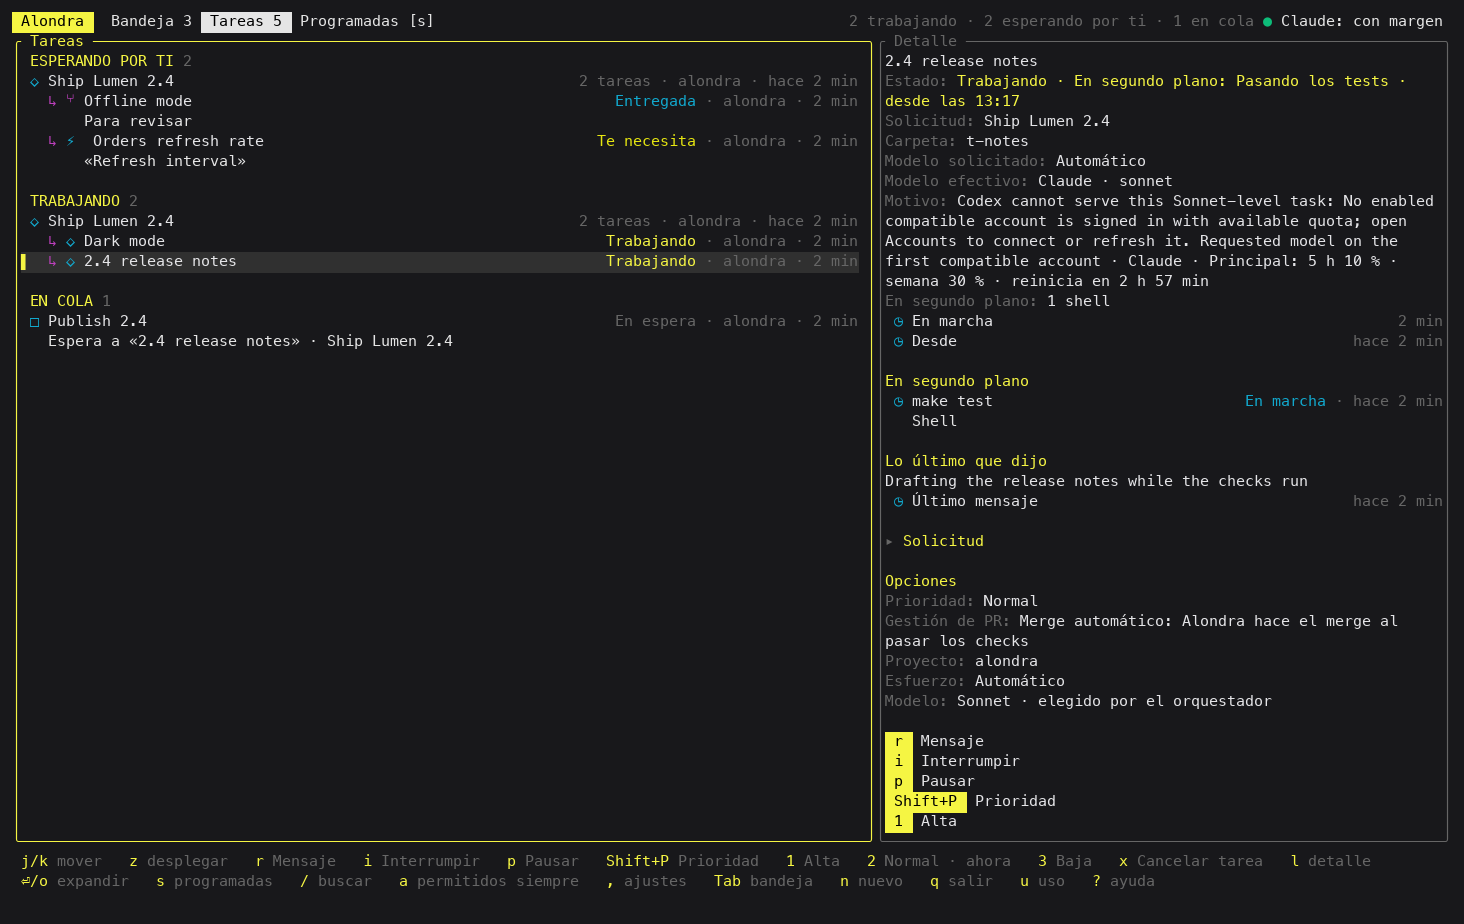
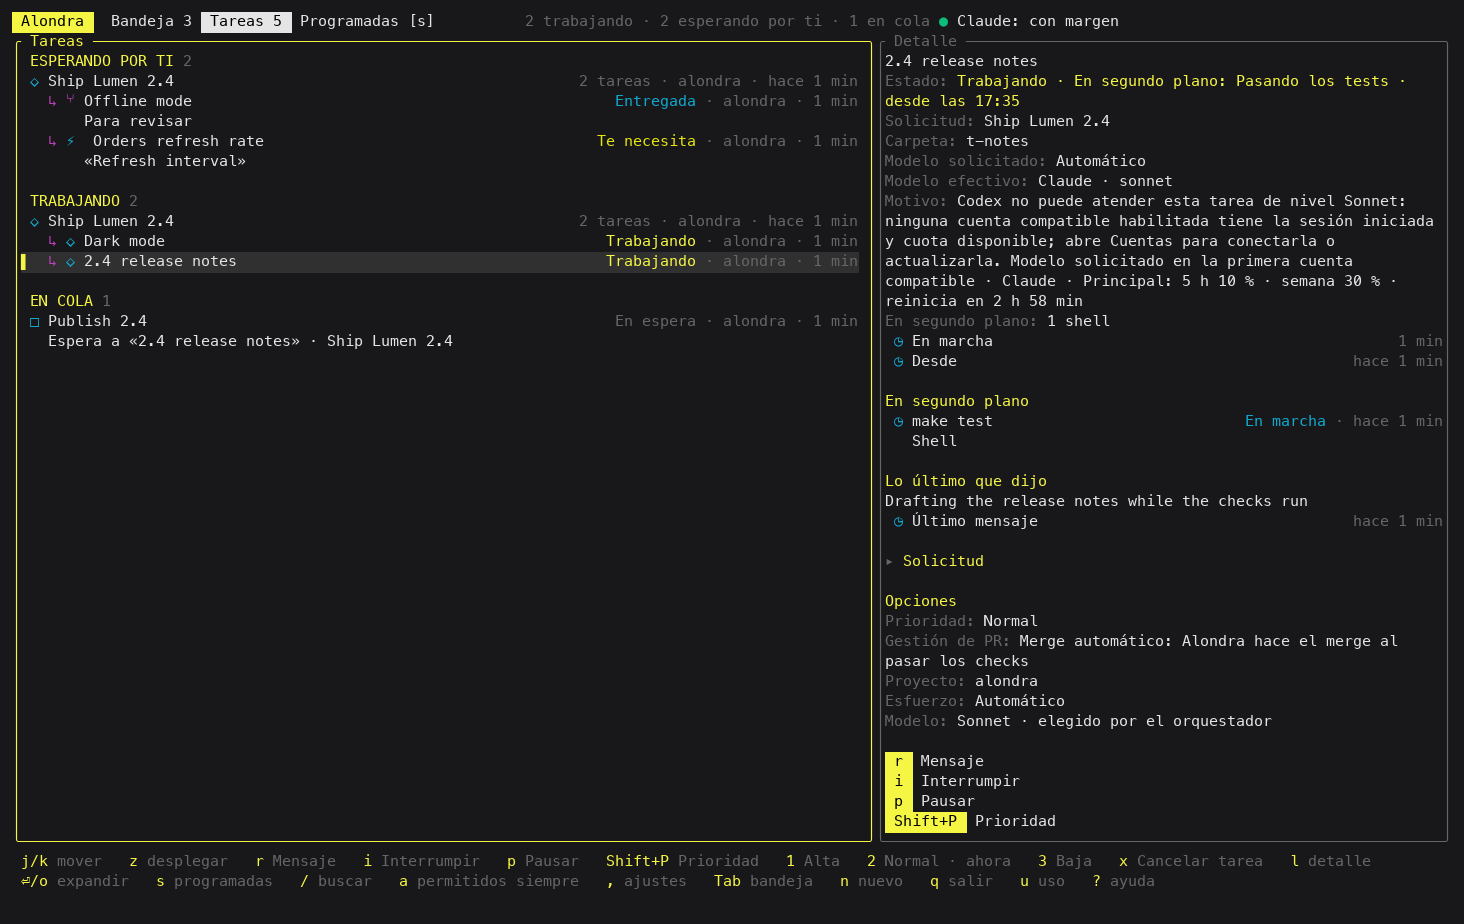
Localize system model-selection diagnostics

diff --git a/crates/core/src/views/tests.rs b/crates/core/src/views/tests.rs
@@ -9490,6 +9490,48 @@ fn a_committed_pending_model_change_localizes_its_app_owned_reason() {
 }
 
 #[test]
+fn model_selection_diagnostics_are_localized_in_every_client_without_translating_authored_prose() {
+    use crate::model_selection::{ModelProfile, TaskSelection};
+    fn shown_reason(view: &View, lang: Lang) -> &str {
+        view.sections.iter().flat_map(|section| &section.items).find_map(|item| match item {
+            Item::Facts(facts) => facts.items.iter().find(|fact| fact.label == if lang == Lang::Es { "Motivo" } else { "Reason" }).map(|fact| fact.value.as_str()),
+            _ => None,
+        }).expect("the client receives a visible model-selection reason")
+    }
+    let (mut state, live) = advertised_model_controls_fixture();
+    let id = state.tasks.values().find(|task| !task.state.terminal()).unwrap().id.clone();
+    let diagnostic = "Codex cannot serve this Sonnet-level task: No enabled compatible account is signed in with available quota; open Accounts to connect or refresh it. Requested model on the first compatible account";
+    state.requests.get_mut(&state.tasks[&id].request_id).unwrap().body = diagnostic.into();
+    for reason in [diagnostic, "Requested model on the first compatible account", "Task profile on the first compatible account", "Requested model unavailable; authorized model substitution", "Provisional Sonnet-level routing to Codex. Task profile on the first compatible account"] {
+        let mut selection = TaskSelection::automatic(ModelProfile::Implementation);
+        selection.reason = Some(reason.into());
+        state.tasks.get_mut(&id).unwrap().selection = Some(selection);
+        for client in [Client::Tui, Client::Ios, Client::Mac] {
+            let english = render(&state, &live, client, Lang::En, &format!("task:{id}"), "");
+            assert!(shown_reason(&english, Lang::En).contains(reason));
+            let spanish_view = render(&state, &live, client, Lang::Es, &format!("task:{id}"), "");
+            let spanish = shown_reason(&spanish_view, Lang::Es);
+            assert!(!spanish.contains(reason), "{spanish}");
+            assert!(spanish_view.sections.iter().filter(|section| section.id == "request").flat_map(|section| &section.items)
+                .any(|item| matches!(item, Item::Markdown(markdown) if markdown.text == diagnostic)), "the mission retains even quoted system wording");
+            if reason == diagnostic {
+                for words in ["Codex no puede atender esta tarea de nivel Sonnet", "ninguna cuenta compatible habilitada", "abre Cuentas", "Modelo solicitado en la primera cuenta compatible"] {
+                    assert!(spanish.contains(words), "{spanish}");
+                }
+            }
+        }
+    }
+    for authored in ["I prefer this account for the launch", "My reason: Requested model on the first compatible account", "Codex cannot serve this Sonnet-level task: my own explanation"] {
+        state.tasks.get_mut(&id).unwrap().selection.as_mut().unwrap().reason = Some(authored.into());
+        state.requests.get_mut(&state.tasks[&id].request_id).unwrap().body = authored.into();
+        for client in [Client::Tui, Client::Ios, Client::Mac] {
+            let spanish = render(&state, &live, client, Lang::Es, &format!("task:{id}"), "");
+            assert!(shown_reason(&spanish, Lang::Es).starts_with(authored));
+        }
+    }
+}
+
+#[test]
 fn a_task_account_fact_qualifies_identical_default_slugs_by_provider() {
     use crate::accounts::{AccountId, Provider};
     let (mut state, live) = advertised_model_controls_fixture();

diff --git a/crates/core/src/views/tasks.rs b/crates/core/src/views/tasks.rs
@@ -1374,6 +1374,29 @@ pub(super) fn without_launch_diagnostic(reason: &str) -> &str {
     boundary.map_or(reason, |at| &reason[..at])
 }
 
+// Match complete system templates, never replace words inside an authored explanation.
+fn selection_diagnostic(reason: &str, lang: super::Lang) -> Option<String> {
+    let text = match reason {
+        "Requested model on the first compatible account" => tr!(lang, "Requested model on the first compatible account", "Modelo solicitado en la primera cuenta compatible"),
+        "Task profile on the first compatible account" => tr!(lang, "Task profile on the first compatible account", "Perfil de la tarea en la primera cuenta compatible"),
+        "Requested model unavailable; authorized model substitution" => tr!(lang, "Requested model unavailable; authorized model substitution", "Modelo solicitado no disponible; sustitución de modelo autorizada"),
+        _ => {
+            if let Some(rest) = reason.strip_prefix("Provisional Sonnet-level routing to Codex. ") {
+                let rest = selection_diagnostic(rest, lang)?;
+                return Some(tf!(lang, "Provisional Sonnet-level routing to Codex. {rest}", "Asignación provisional a Codex de una tarea de nivel Sonnet. {rest}"));
+            }
+            if let Some(rest) = reason.strip_prefix("Codex cannot serve this Sonnet-level task: No enabled compatible account is signed in with available quota; open Accounts to connect or refresh it. ") {
+                let rest = selection_diagnostic(rest, lang)?;
+                return Some(tf!(lang,
+                    "Codex cannot serve this Sonnet-level task: No enabled compatible account is signed in with available quota; open Accounts to connect or refresh it. {rest}",
+                    "Codex no puede atender esta tarea de nivel Sonnet: ninguna cuenta compatible habilitada tiene la sesión iniciada y cuota disponible; abre Cuentas para conectarla o actualizarla. {rest}"));
+            }
+            return None;
+        }
+    };
+    Some(text.into())
+}
+
 fn task_model_presentation(task: &TaskId, context: &RenderContext<'_>) -> Option<super::TaskModelPresentation> {
     let selection = context.index.task_selection(task)?;
     let model_name = |model: &crate::model_selection::ModelKey, effort: Option<&str>| {
@@ -1394,8 +1417,9 @@ fn task_model_presentation(task: &TaskId, context: &RenderContext<'_>) -> Option
             // Older decisions appended diagnostic quota after this boundary. Keep their
             // explanation; the localized reading below replaces that display-only suffix.
             let reason = without_launch_diagnostic(reason);
+            let reason = selection_diagnostic(reason, context.lang).unwrap_or_else(|| reason.into());
             let quota = super::accounts::decision_quota_summary(context.index.accounts(), context.index.account_usage(), context.live.observed_at, context.lang);
-            if quota.is_empty() { reason.into() } else { format!("{reason} · {quota}") }
+            if quota.is_empty() { reason } else { format!("{reason} · {quota}") }
         })),
     })
 }
